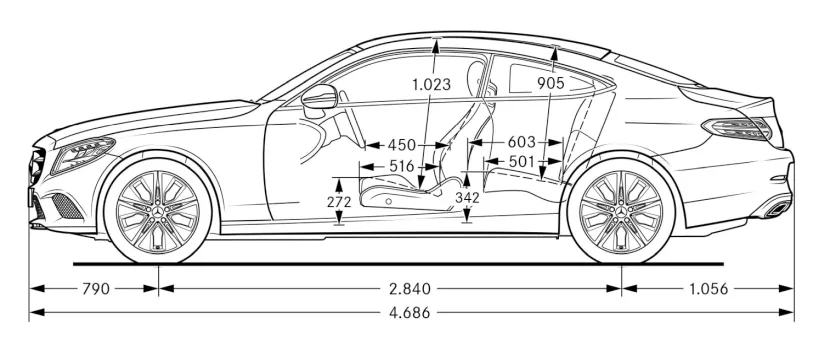
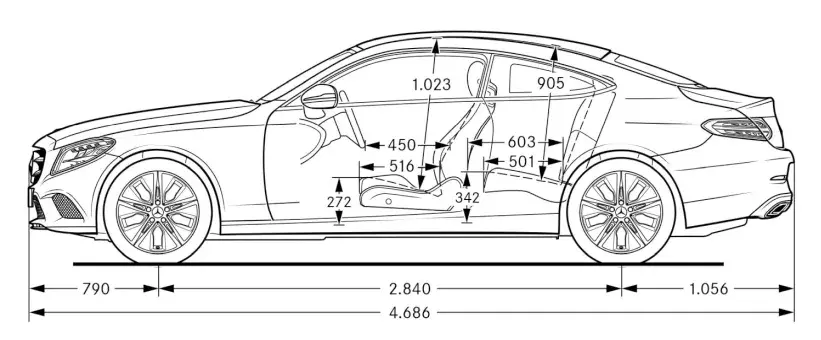
246

diff --git a/pic/ja_mb_img_clc.html b/pic/ja_mb_img_clc.html
@@ -445,7 +445,7 @@
 						<a href="full/clc/c205_i.jpg"><img loading="lazy" src="style/clc/c205_i.webp" alt="メルセデス,C205,Cクラス,クーペ,内装" width="482" height="361"></a>
 						<h5>ボディサイズ</h5>
 						<a href="full/clc/c205_a1.jpg"><img loading="lazy" src="style/clc/c205_a1.webp" alt="Mercedes,C205,Cクラス,Coupe,寸法図" width="384" height="340"></a>
-						<a href="full/clc/c205_a2.jpg"><img loading="lazy" src="style/clc/c205_a2.webp" alt="Mercedes,C205,Cクラス,Coupe,寸法図" width="823" height="340"></a>
+						<a href="full/clc/c205_a2.jpg"><img loading="lazy" src="style/clc/c205_a2.webp" alt="Mercedes,C205,Cクラス,Coupe,寸法図" width="821" height="340"></a>
 					</section>
 				</div>
 				<div class="vmenu_off">

diff --git a/pic/en_mb_img_clc.html b/pic/en_mb_img_clc.html
@@ -445,7 +445,7 @@
 						<a href="full/clc/c205_i.jpg"><img loading="lazy" src="style/clc/c205_i.webp" alt="Mercedes,C205,C-class,Coupe,Interior" width="482" height="361"></a>
 						<h5>Dimensions</h5>
 						<a href="full/clc/c205_a1.jpg"><img loading="lazy" src="style/clc/c205_a1.webp" alt="Mercedes,C205,C-class,Coupe,Dimensions" width="384" height="340"></a>
-						<a href="full/clc/c205_a2.jpg"><img loading="lazy" src="style/clc/c205_a2.webp" alt="Mercedes,C205,C-class,Coupe,Dimensions" width="823" height="340"></a>
+						<a href="full/clc/c205_a2.jpg"><img loading="lazy" src="style/clc/c205_a2.webp" alt="Mercedes,C205,C-class,Coupe,Dimensions" width="821" height="340"></a>
 					</section>
 				</div>
 				<div class="vmenu_off">

diff --git a/pic/mb_img_clc.html b/pic/mb_img_clc.html
@@ -445,7 +445,7 @@
 						<a href="full/clc/c205_i.jpg"><img loading="lazy" src="style/clc/c205_i.webp" alt="Mercedes,C205,C-klasse,Coupé,Innenansicht" width="482" height="361"></a>
 						<h5>Abmessungen</h5>
 						<a href="full/clc/c205_a1.jpg"><img loading="lazy" src="style/clc/c205_a1.webp" alt="Mercedes,C205,C-klasse,Coupé,Maße" width="384" height="340"></a>
-						<a href="full/clc/c205_a2.jpg"><img loading="lazy" src="style/clc/c205_a2.webp" alt="Mercedes,C205,C-klasse,Coupé,Maße" width="823" height="340"></a>
+						<a href="full/clc/c205_a2.jpg"><img loading="lazy" src="style/clc/c205_a2.webp" alt="Mercedes,C205,C-klasse,Coupé,Maße" width="821" height="340"></a>
 					</section>
 				</div>
 				<div class="vmenu_off">
